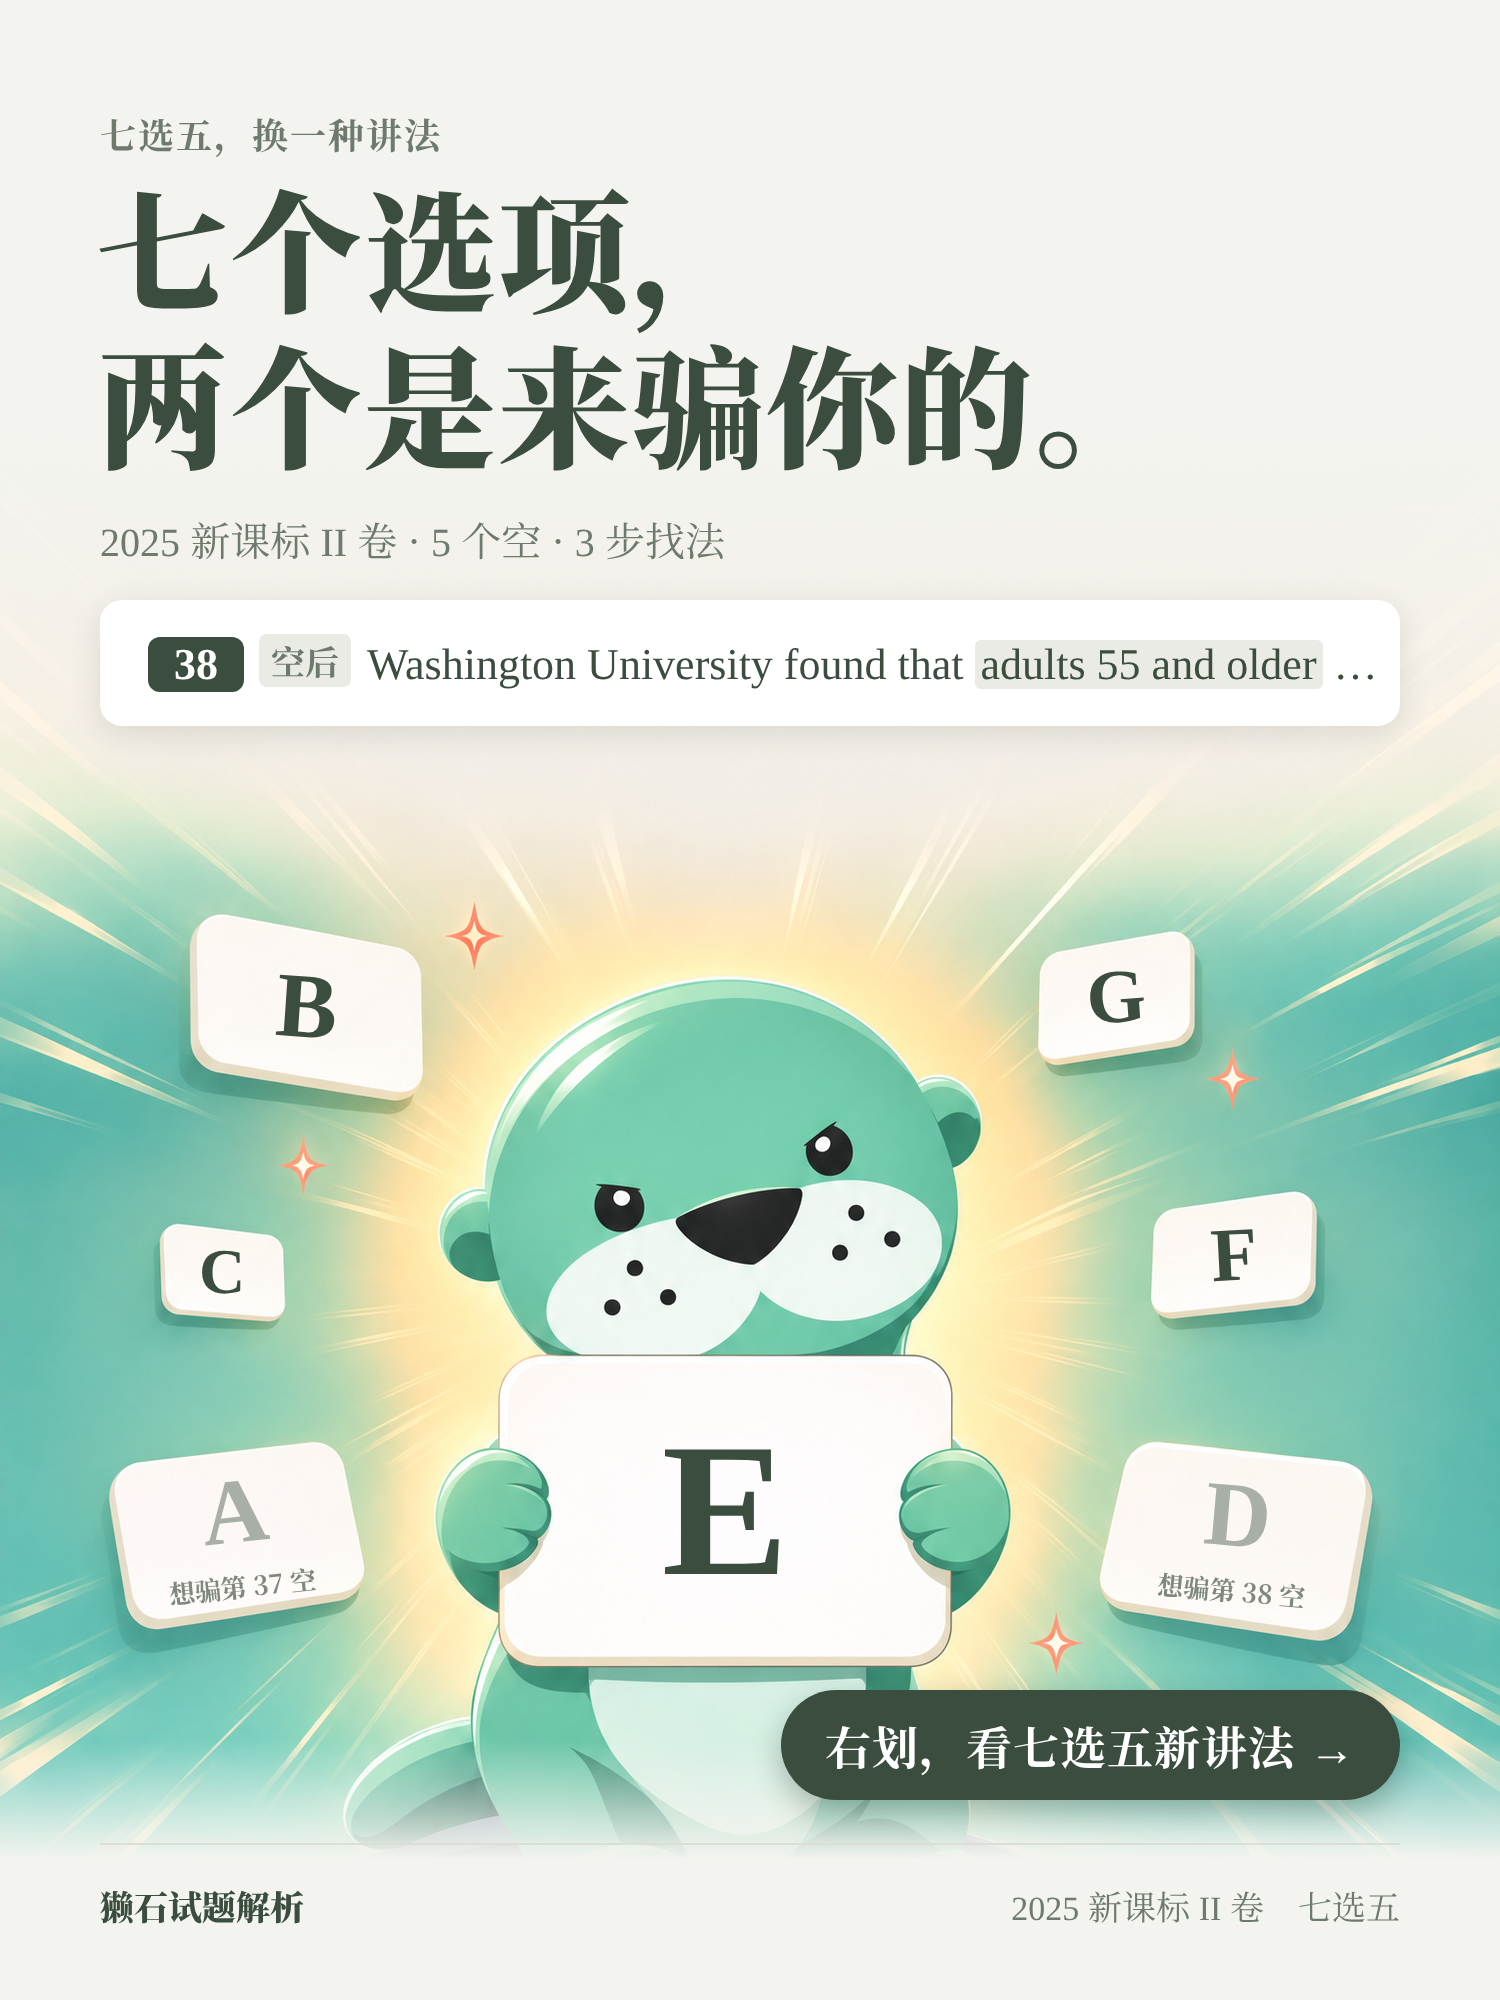
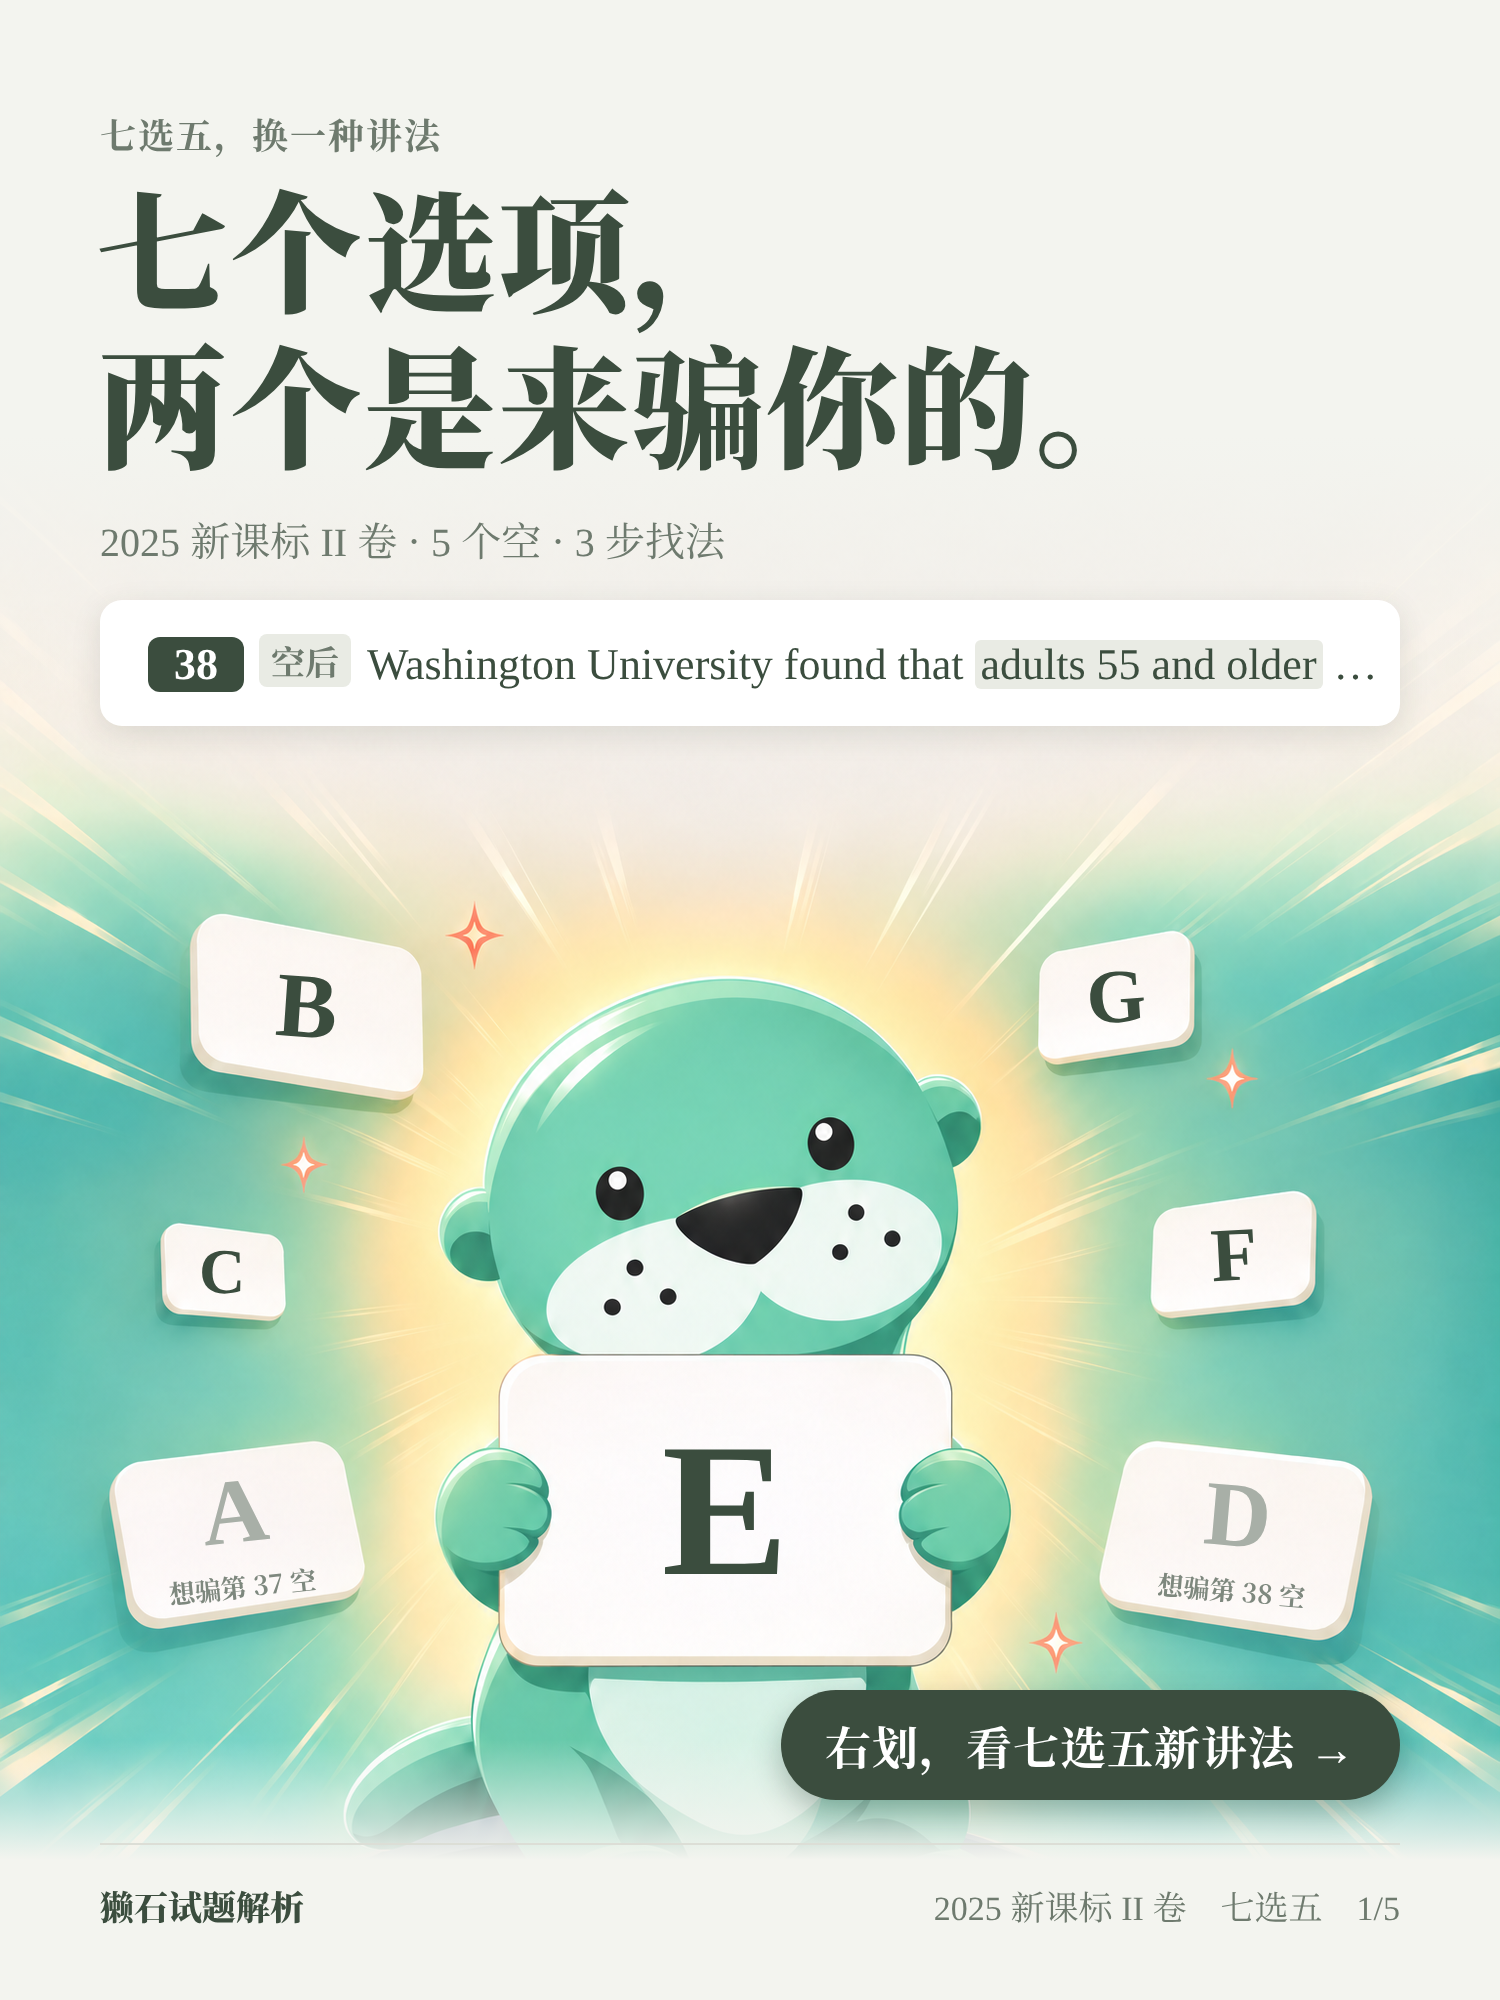
Soften the otter expression and add 1/5 to the seven-choose-five cover
Claude-Session: https://claude.ai/code/session_01Ct2ZKAR8eRNsJG4UDaFzH4

diff --git a/design/social-2026-11-22/qixuanwu-cover/cover2.html b/design/social-2026-11-22/qixuanwu-cover/cover2.html
@@ -8,7 +8,7 @@
 :root{--ink:#3B4D3E;--mute:#6E7A6E;--paper:#F3F4EF;--line:#DCDED6}
 *{margin:0;box-sizing:border-box}
 body{width:1500px;height:2000px;position:relative;overflow:hidden;font-family:"Liberation Serif",NSL,NS,serif;color:var(--ink);background:var(--paper)}
-.bg{position:absolute;inset:0;background:url(Q1.png) center/cover}
+.bg{position:absolute;inset:0;background:url(Q2.png) center/cover}
 .fadeTop{position:absolute;left:0;right:0;top:0;height:700px;background:linear-gradient(var(--paper) 0,var(--paper) 62%,rgba(243,244,239,0) 100%)}
 .kicker{position:absolute;left:100px;top:108px;font:700 36px NS;color:var(--mute);letter-spacing:2px}
 h1{position:absolute;left:96px;top:168px;font:900 132px/1.18 NS;letter-spacing:2px}
@@ -50,5 +50,5 @@ h1{position:absolute;left:96px;top:168px;font:900 132px/1.18 NS;letter-spacing:2
 <div class="opt bad" style="left:1100px;top:1440px;width:272px;height:196px;transform:rotate(5deg)"><span class="L">D</span><small>想骗第 38 空</small></div>
 <div class="fadeBot"></div>
 <div class="cta">右划，看七选五新讲法<span>→</span></div>
-<div class="foot"><b>獭石试题解析</b><span><span style="font-family:'Liberation Serif'">2025</span> 新课标 <span style="font-family:'Liberation Serif'">II</span> 卷　七选五</span></div>
+<div class="foot"><b>獭石试题解析</b><span><span style="font-family:'Liberation Serif'">2025</span> 新课标 <span style="font-family:'Liberation Serif'">II</span> 卷　七选五　<span style="font-family:'Liberation Serif'">1/5</span></span></div>
 </body></html>

diff --git a/design/social-2026-11-22/qixuanwu-cover/README.md b/design/social-2026-11-22/qixuanwu-cover/README.md
@@ -1,5 +1,6 @@
 # Ins 轮播封面 · 七选五新讲法（2026-11-23）
 
 - `cover2.png`：成品，1500×2000（3:4），配 2025 新课标 II 卷七选五的 5 张内页。
-- `Q1.png`：底图，gpt-image-2.6-sunburst，参考上一张封面底图 `../ins-magnifier/cover/C1.png` 和坐石全身像；提示词见 `prompt-Q1.txt`。
+- `Q2.png`：现用底图，从 `Q1.png` 只改表情（更柔和），提示词见 `prompt-Q2.txt`。
+- `Q1.png`：第一版底图，gpt-image-2.6-sunburst，参考上一张封面底图 `../ins-magnifier/cover/C1.png` 和坐石全身像；提示词见 `prompt-Q1.txt`。
 - `cover2.html`：排版源文件，做法同 `../ins-magnifier/cover/README.md`。
